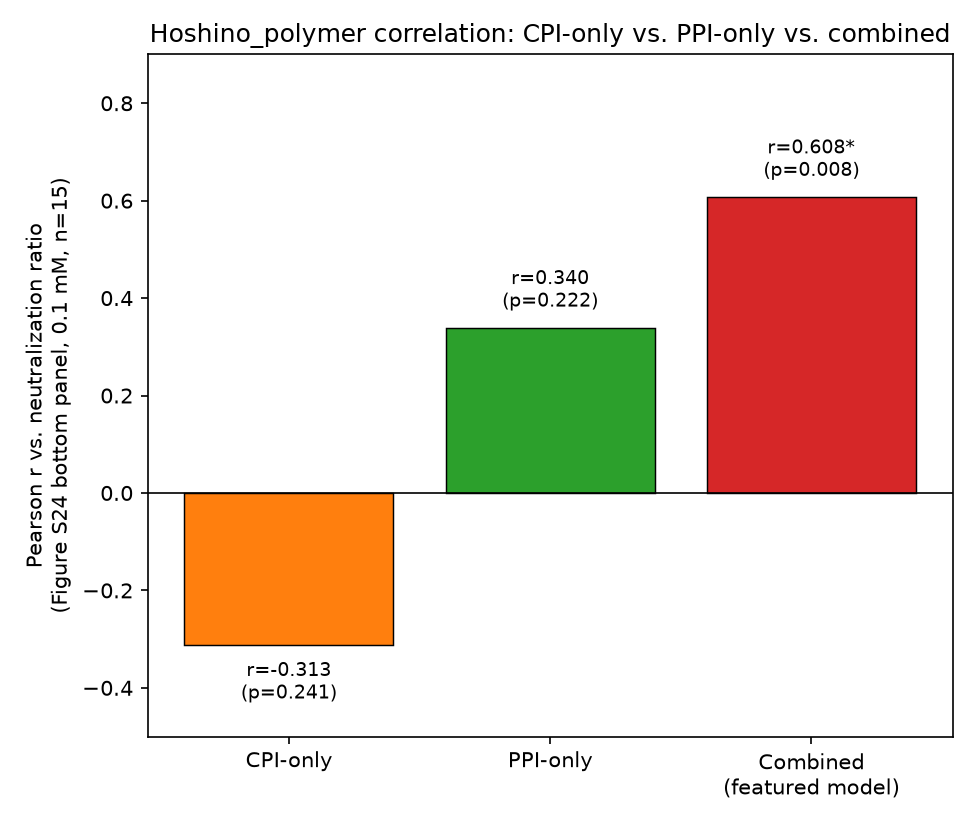
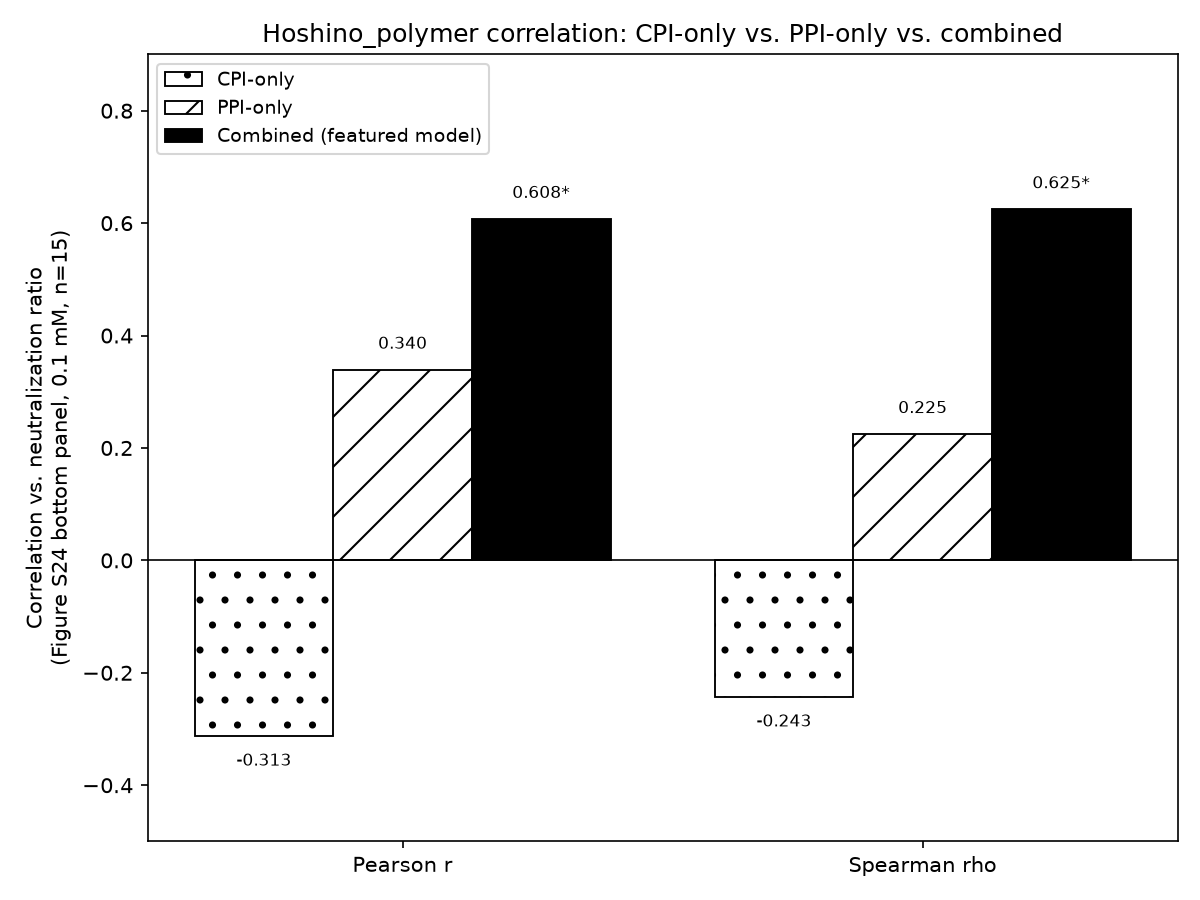
Show both Pearson r and Spearman rho in the CPI/PPI/combined Hoshino comparison bar plot
Grouped bars (one group per metric, three models per group) instead of a
single Pearson-only bar per model. Combined is now solid black; CPI-only/
PPI-only use dot/diagonal-line hatch patterns instead of color, so the
distinction reads in grayscale too.

diff --git a/scripts/plot_hoshino_cpi_ppi_comparison.py b/scripts/plot_hoshino_cpi_ppi_comparison.py
@@ -1,11 +1,14 @@
 """
-Bar plot comparing the Hoshino_polymer external-validation Pearson
-correlation (vs. Figure S24 bottom panel, 0.1 mM neutralization ratio,
-n=15) across three models trained on the same split_pure_random_uniqueonly
-data (same encoder/architecture): CPI-only, PPI-only, and this repo's
-featured CPI+PPI combined (balanced) model. All three use permutation-test
-Pearson p-values (99999 resamples) for consistency with the rest of this
-repo's methodology.
+Bar plot comparing the Hoshino_polymer external-validation correlation
+(vs. Figure S24 bottom panel, 0.1 mM neutralization ratio, n=15) across
+three models trained on the same split_pure_random_uniqueonly data (same
+encoder/architecture): CPI-only, PPI-only, and this repo's featured
+CPI+PPI combined (balanced) model. Both Pearson r and Spearman rho are
+shown, grouped side by side per metric, with all three models' bars
+adjacent within each group. Combined is solid black; CPI-only/PPI-only use
+hatch patterns (dots / diagonal lines) instead of color so the figure reads
+in grayscale too. All p-values are from permutation tests (99999
+resamples) for consistency with the rest of this repo's methodology.
 """
 import os
 
@@ -15,6 +18,7 @@ import matplotlib.pyplot as plt
 import numpy as np
 import pandas as pd
 from scipy import stats
+from scipy.stats import spearmanr
 
 NEUTRALIZATION = {
     "A2T0": 9.4, "A2T1": 3.6, "A2T2": 16.0, "A2T3": 26.4, "A2T4": 25.2, "A2T5": 31.8,
@@ -36,41 +40,65 @@ def pearsonr_perm(x, y):
     return res.statistic, res.pvalue
 
 
+def spearmanr_perm(x, y):
+    rng = np.random.default_rng(PERM_SEED)
+    rho_obs = spearmanr(x, y).statistic
+    y_arr = np.asarray(y)
+    count = 0
+    for _ in range(N_RESAMPLES):
+        y_perm = rng.permutation(y_arr)
+        rho_perm = spearmanr(x, y_perm).statistic
+        if abs(rho_perm) >= abs(rho_obs):
+            count += 1
+    p = (count + 1) / (N_RESAMPLES + 1)
+    return rho_obs, p
+
+
 def load_pred(csv_path, pred_col="predicted_pKd"):
     df = pd.read_csv(csv_path)
     df["label"] = "A" + df["n"].astype(str) + "T" + df["m"].astype(str)
     df["neutralization"] = df["label"].map(NEUTRALIZATION)
     sub = df.dropna(subset=["neutralization"])
-    return pearsonr_perm(sub[pred_col], sub["neutralization"])
+    r, p_r = pearsonr_perm(sub[pred_col], sub["neutralization"])
+    rho, p_rho = spearmanr_perm(sub[pred_col], sub["neutralization"])
+    return r, p_r, rho, p_rho
 
 
-r_cpi, p_cpi = load_pred(CPI_ONLY_CSV)
-r_ppi, p_ppi = load_pred(PPI_ONLY_CSV)
-r_combined, p_combined = load_pred(COMBINED_CSV)
+models = ["CPI-only", "PPI-only", "Combined\n(featured model)"]
+csvs = [CPI_ONLY_CSV, PPI_ONLY_CSV, COMBINED_CSV]
+hatches = [".", "/", None]  # dots / diagonal lines / solid
+facecolors = ["white", "white", "black"]
 
-print(f"CPI-only:  r={r_cpi:.4f} (permutation p={p_cpi:.5f})")
-print(f"PPI-only:  r={r_ppi:.4f} (permutation p={p_ppi:.5f})")
-print(f"Combined (featured): r={r_combined:.4f} (permutation p={p_combined:.5f})")
+results = [load_pred(csv) for csv in csvs]
+for name, (r, p_r, rho, p_rho) in zip(models, results):
+    print(f"{name.replace(chr(10), ' ')}: pearson r={r:.4f} (p={p_r:.5f}), spearman rho={rho:.4f} (p={p_rho:.5f})")
 
-labels = ["CPI-only", "PPI-only", "Combined\n(featured model)"]
-rs = [r_cpi, r_ppi, r_combined]
-ps = [p_cpi, p_ppi, p_combined]
-colors = ["tab:orange", "tab:green", "tab:red"]
+metrics = ["Pearson r", "Spearman rho"]
+group_centers = np.arange(len(metrics))
+n_models = len(models)
+bar_width = 0.8 / n_models
 
-fig, ax = plt.subplots(figsize=(6.5, 5.5))
-bars = ax.bar(labels, rs, color=colors, edgecolor="black", linewidth=0.7)
+fig, ax = plt.subplots(figsize=(8, 6))
+for i, (name, hatch, facecolor) in enumerate(zip(models, hatches, facecolors)):
+    r, p_r, rho, p_rho = results[i]
+    values = [r, rho]
+    pvals = [p_r, p_rho]
+    offsets = group_centers + (i - (n_models - 1) / 2) * bar_width
+    bars = ax.bar(offsets, values, width=bar_width, facecolor=facecolor, edgecolor="black",
+                 linewidth=0.9, hatch=hatch, label=name.replace("\n", " "))
+    for x, v, p in zip(offsets, values, pvals):
+        sig = "*" if p < 0.05 else ""
+        y = v + (0.03 if v >= 0 else -0.03)
+        va = "bottom" if v >= 0 else "top"
+        ax.annotate(f"{v:.3f}{sig}", (x, y), ha="center", va=va, fontsize=8)
+
 ax.axhline(0, color="black", linewidth=0.8)
-ax.set_ylabel("Pearson r vs. neutralization ratio\n(Figure S24 bottom panel, 0.1 mM, n=15)")
+ax.set_xticks(group_centers)
+ax.set_xticklabels(metrics)
+ax.set_ylabel("Correlation vs. neutralization ratio\n(Figure S24 bottom panel, 0.1 mM, n=15)")
 ax.set_title("Hoshino_polymer correlation: CPI-only vs. PPI-only vs. combined")
-
-for bar, r, p in zip(bars, rs, ps):
-    sig = "*" if p < 0.05 else ""
-    y = r + (0.03 if r >= 0 else -0.03)
-    va = "bottom" if r >= 0 else "top"
-    ax.annotate(f"r={r:.3f}{sig}\n(p={p:.3f})", (bar.get_x() + bar.get_width() / 2, y),
-               ha="center", va=va, fontsize=9)
-
 ax.set_ylim(-0.5, 0.9)
+ax.legend(loc="upper left", fontsize=9)
 fig.tight_layout()
 fig.savefig(OUT_PNG, dpi=150)
 print(f"Saved {OUT_PNG}")
